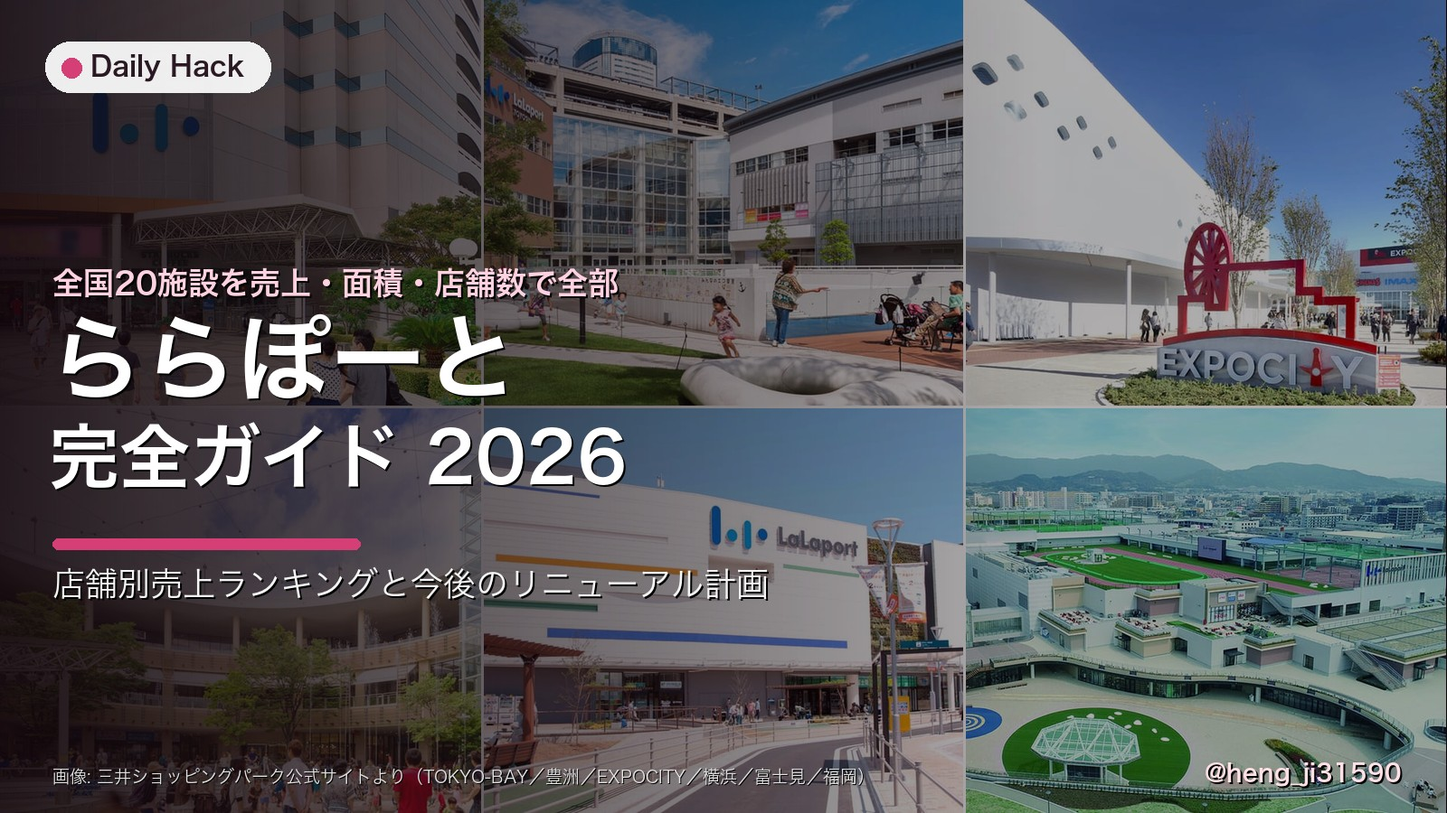
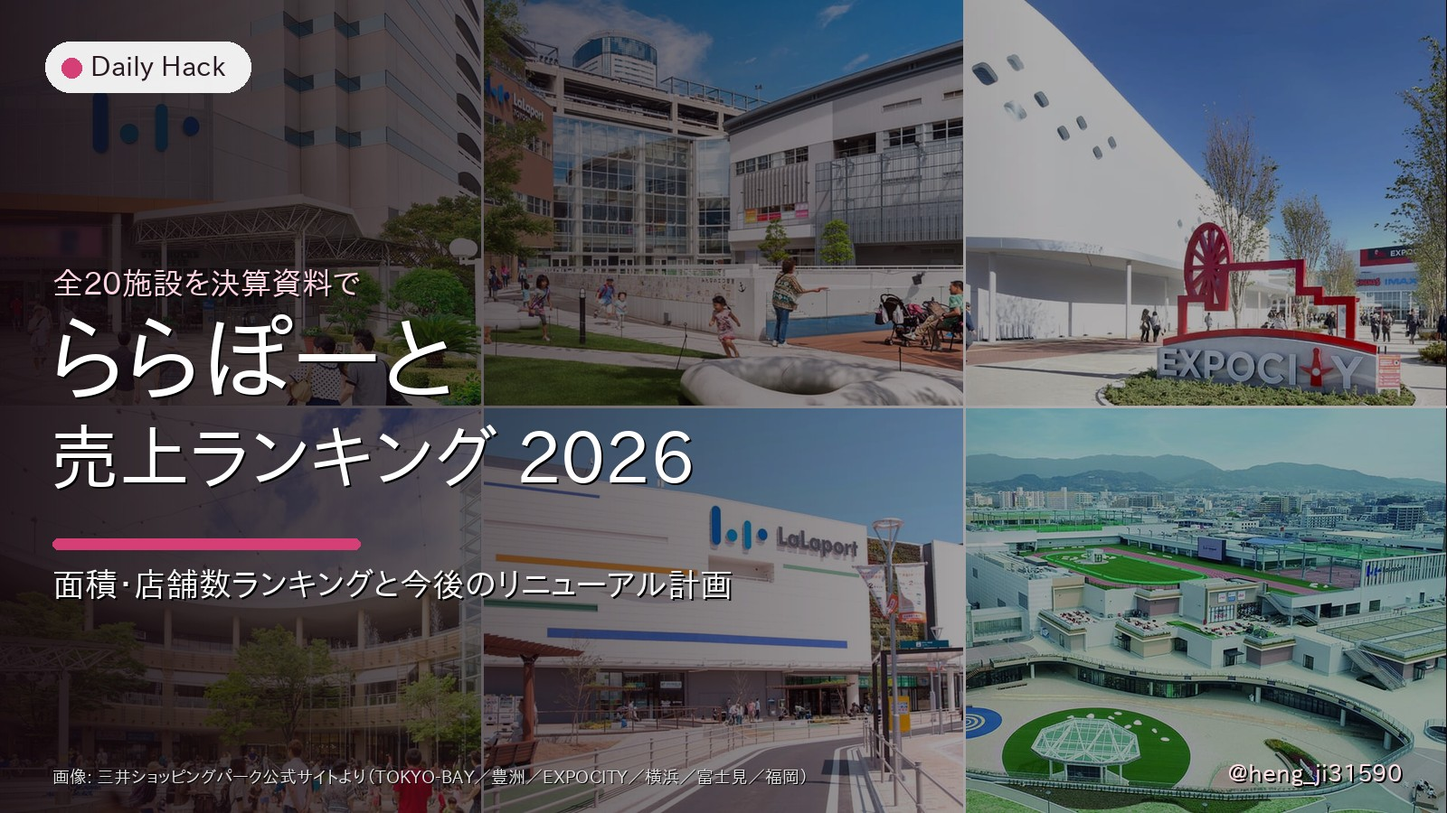
feat: ららぽーと記事を「売上ランキング」に寄せる（7.8位からの押し上げ）
GSC の実測（07-30〜08-26）を棚卸しと突き合わせた結果、
**この記事は実質「ららぽーと 売上ランキング」の記事として認識されている**
（語が返ってきた124表示のうち112＝90%がこのクラスタ）。
にもかかわらず**タイトルに「ランキング」が入っていなかった。**

表示は前回338 → 413（+22%）と伸びたのに**クリックは23のまま横ばい**で、
CTR が 6.8% → 5.6% に落ちた。6.4〜7.8位＝1ページ目の下に張り付いていて、
順位が上がらないとクリックが増えない位置にある。

打った手。

- タイトルを `ららぽーと売上ランキング 2026｜全20施設を決算資料で並べた（面積・店舗数つき）` に変更
- description と冒頭リードに「売上ランキング」をそのまま入れる
- アイキャッチの文字も「売上ランキング 2026」に作り直し（構図は変えていない）
- **「よくある質問」の H2 を追加。** 棚卸しで ✗ だった #3「何店舗」と #13「セール いつ」は
  実測でも 1 件も返っておらず、本文にしか語が無いと拾えないことが裏付けられた。
  疑問形 6 つ（何店舗／一番売上が高い／一番大きい／店舗数が多い／セールはいつ／駐車場は何時間無料）
  に、記事内の数字で答えて根拠の節へリンクした
- 大きさ・店舗数ランキングの表 **30 行に公式リンクを追加**（`check-article-ux.py` の指摘解消）
- 地域別の表に施設の内訳（公式リンクつき）を追加

ついでに見つかった誤りを 2 つ直した。

- **駐車場の「半分の10施設は終日無料」は誤り。** 表を機械的に数えると
  曜日を問わず終日無料は **8 施設**、平日だけ終日無料の 4 施設を足して 12＝6割。
  10 はどちらの数え方でも合わない
- **セールの節にはビジュアルが無かった。** 下の related-block の `<img>` を
  たまたま拾って検査を通っていただけで、見出しを 1 つ挟んだら落ちた。
  `tower-timeline` は正規の視覚部品なので `check-article-ux.py` の判定に足した

`docs/analytics/lalaport-keyword-inventory.md` に実測との突き合わせと打ち手を記録した。
**次回の実測で見るのは、①7.5位が動いたか ②「何店舗」「セール いつ」が返るようになったか。**

`gen-mosaic-hero.py` にも Linux（IPA ゴシック）のフォント代替を足して、
クラウドセッションから表紙を作り直せるようにした。

Claude-Session: https://claude.ai/code/session_01RqPaqffepEWsiAkvhJEvmW

diff --git a/scripts/gen-mosaic-hero.py b/scripts/gen-mosaic-hero.py
@@ -21,8 +21,19 @@ if not imgs:
     print("画像を1枚以上指定すること", file=sys.stderr)
     sys.exit(1)
 
-FB = "/System/Library/Fonts/ヒラギノ角ゴシック W6.ttc"
-FL = "/System/Library/Fonts/ヒラギノ角ゴシック W3.ttc"
+# macOS はヒラギノ、Linux（クラウドセッション）は IPA ゴシックを使う。
+# **どちらでも同じコマンドで生成できるようにする**（2026-08-28 に代替を追加）。
+import os as _os
+_CAND_B = ["/System/Library/Fonts/ヒラギノ角ゴシック W6.ttc",
+           "/usr/share/fonts/opentype/ipafont-gothic/ipagp.ttf",
+           "/usr/share/fonts/opentype/ipafont-gothic/ipag.ttf"]
+_CAND_L = ["/System/Library/Fonts/ヒラギノ角ゴシック W3.ttc",
+           "/usr/share/fonts/opentype/ipafont-gothic/ipagp.ttf",
+           "/usr/share/fonts/opentype/ipafont-gothic/ipag.ttf"]
+FB = next((c for c in _CAND_B if _os.path.exists(c)), None)
+FL = next((c for c in _CAND_L if _os.path.exists(c)), None)
+if FB is None or FL is None:
+    raise SystemExit("日本語フォントが見つからない: " + " / ".join(_CAND_B))
 f = lambda sz, light=False: ImageFont.truetype(FL if light else FB, sz)
 MAG = (214, 62, 118)
 W, H = 1600, 900

diff --git a/scripts/check-article-ux.py b/scripts/check-article-ux.py
@@ -89,7 +89,12 @@ def check(path):
     # --- 5. 1セクション1ビジュアル ---
     # 見出しで本文を分割し、各セクションに視覚要素があるかを見る。
     # 視覚要素 = <img> / iframe(YouTube等) / X埋め込み / 写真カード / 図版
-    VISUAL = re.compile(r"<img\s|<iframe\s|twitter-tweet|event-pick|rn-figure|figure-card|<table")
+    # tower-timeline（年表・時系列）も視覚部品として数える。
+    # 2026-08-29: セールの節が「下の related-block の <img> をたまたま拾って」通っていた。
+    # 見出しを 1 つ挟んだだけで落ちたので、実際にはビジュアルが無かった。
+    # tower-timeline は skill の部品表にある正規の視覚部品なので、ここに足す。
+    VISUAL = re.compile(r"<img\s|<iframe\s|twitter-tweet|event-pick|rn-figure|figure-card"
+                        r"|<table|tower-timeline")
     parts = re.split(r'(<h[23][^>]*>.*?</h[23]>)', body, flags=re.S)
     # parts: [前文, 見出し, 本文, 見出し, 本文, ...]
     for i in range(1, len(parts) - 1, 2):

diff --git a/src/content/posts/lalaport-guide-2026.md b/src/content/posts/lalaport-guide-2026.md
@@ -1,18 +1,18 @@
 ---
-title: "ららぽーと完全ガイド 2026｜全20施設の売上・面積・店舗数と、これから変わる4施設"
-description: "全国20施設のららぽーとを、三井不動産の決算資料に載った店舗別売上と面積・店舗数で全部並べた。ラゾーナ川崎が全国3位という事実、横浜が110億円減った理由、2026年から始まる大規模リニューアルまで。"
+title: "ららぽーと売上ランキング 2026｜全20施設を決算資料で並べた（面積・店舗数つき）"
+description: "ららぽーとの売上ランキングを、三井不動産の決算資料に載った店舗別売上で全20施設ぶん並べた。面積ランキング・店舗数ランキングつき。ラゾーナ川崎が全国3位という事実、横浜が110億円減った理由、2026年からのリニューアルまで。"
 publishDate: 2026-08-09
 category: ["roundups", "comparisons"]
 tags: ["ららぽーと", "三井ショッピングパーク", "三井不動産", "ショッピングモール", "売上ランキング", "リニューアル", "ラゾーナ川崎", "TOKYO-BAY", "2026年版"]
 draft: false
 eyecatchUrl: "/images/lalaport-guide-2026/eyecatch.jpg"
-eyecatchAlt: "ららぽーと完全ガイド 2026｜全20施設の売上・面積・店舗数と、これから変わる4施設"
+eyecatchAlt: "ららぽーと売上ランキング 2026｜全20施設を決算資料で並べた（面積・店舗数つき）"
 author: "hacker-ko"
 ---
 
 「ららぽーとって全部でいくつあるの？」「どこが一番デカいの？」——検索しても、出てくるのは店舗一覧のコピペか、行った感想ばかり。**数字で答えてる記事がない。**
 
-だからアタシが作った。**三井不動産が決算資料で公開している店舗別売上**を軸に、全20施設を面積・店舗数・開業年で並べる。**面積順・店舗数順・地域別**の3つのランキングも用意した。おまけに前年の資料と突き合わせて、**どこが伸びてどこが落ちたか**まで出した。この差分はどこにも載ってない。
+だからアタシが作った。**三井不動産が決算資料で公開している店舗別売上**を軸に、**ららぽーとの売上ランキングを全20施設ぶん**並べる。あわせて**面積ランキング・店舗数ランキング・地域別**も用意した。おまけに前年の資料と突き合わせて、**どこが伸びてどこが落ちたか**まで出した。この差分はどこにも載ってない。
 
 <div class="hakkako-says">
   <div class="hakkako-mascot"><img src="/images/expr-05-smug.png" alt="Daily Hackマスコット" /></div>
@@ -422,26 +422,26 @@ North Gate 3階のフードコートは約1,400席。ららぽーとTOKYO-BAY全
   <table class="cmp-table">
     <thead><tr><th>順</th><th>施設</th><th>店舗面積</th><th>店舗数</th><th>所在</th><th>開業</th></tr></thead>
     <tbody>
-      <tr class="recommended"><td>1</td><td>TOKYO-BAY</td><td>約133,000㎡</td><td>約390〜420</td><td>関東・船橋</td><td>1981/4</td></tr>
-      <tr class="recommended"><td>2</td><td>横浜</td><td>約93,000㎡</td><td>約270</td><td>関東・横浜</td><td>2007/3</td></tr>
-      <tr class="recommended"><td>3</td><td>EXPOCITY</td><td>約88,000㎡</td><td>約310</td><td>関西・吹田</td><td>2015/11</td></tr>
-      <tr><td>4</td><td>富士見</td><td>約80,000㎡</td><td>約290</td><td>関東・富士見</td><td>2015/4</td></tr>
-      <tr><td>5</td><td>福岡</td><td>約73,100㎡</td><td>約222</td><td>九州・福岡</td><td>2022/4</td></tr>
-      <tr><td>6</td><td>豊洲</td><td>約67,000㎡</td><td>約220</td><td>関東・江東</td><td>2006/10</td></tr>
-      <tr><td>7</td><td>門真</td><td>約66,000㎡ ※</td><td>153（MOP98を除く）</td><td>関西・門真</td><td>2023/4</td></tr>
-      <tr><td>8</td><td>沼津</td><td>約64,000㎡</td><td>約210</td><td>東海・沼津</td><td>2019/10</td></tr>
-      <tr><td>9</td><td>愛知東郷</td><td>約63,900㎡</td><td>約201</td><td>東海・愛知郡</td><td>2020/9</td></tr>
-      <tr><td>10</td><td>安城</td><td>約60,300㎡</td><td>約215</td><td>東海・安城</td><td>2025/4</td></tr>
-      <tr><td>11</td><td>甲子園</td><td>約60,000㎡</td><td>約150</td><td>関西・西宮</td><td>2004/11</td></tr>
-      <tr><td>12</td><td>立川立飛</td><td>約60,000㎡</td><td>約240</td><td>関東・立川</td><td>2015/12</td></tr>
-      <tr><td>13</td><td>湘南平塚</td><td>約60,000㎡</td><td>約247</td><td>関東・平塚</td><td>2016/10</td></tr>
-      <tr><td>14</td><td>名古屋みなとアクルス</td><td>約59,500㎡</td><td>約217</td><td>東海・名古屋</td><td>2018/9</td></tr>
-      <tr><td>15</td><td>新三郷</td><td>約59,400㎡</td><td>約180</td><td>関東・三郷</td><td>2009/9</td></tr>
-      <tr><td>16</td><td>堺</td><td>約56,200㎡</td><td>約212</td><td>関西・堺</td><td>2022/11</td></tr>
-      <tr><td>17</td><td>和泉</td><td>約55,000㎡</td><td>約210</td><td>関西・和泉</td><td>2014/10</td></tr>
-      <tr><td>18</td><td>海老名</td><td>約54,000㎡</td><td>約260</td><td>関東・海老名</td><td>2015/10</td></tr>
-      <tr><td>19</td><td>磐田</td><td>約50,000㎡</td><td>約175</td><td>東海・磐田</td><td>2009/6</td></tr>
-      <tr><td>20</td><td>柏の葉</td><td>約49,500㎡</td><td>約180</td><td>関東・柏</td><td>2006/11</td></tr>
+      <td><a href="https://mitsui-shopping-park.com/lalaport/tokyo-bay/" target="_blank" rel="noopener">TOKYO-BAY</a></td><tr class="recommended"><td>1</td><td>TOKYO-BAY</td><td>約133,000㎡</td><td>約390〜420</td><td>関東・船橋</td><td>1981/4</td></tr>
+      <td><a href="https://mitsui-shopping-park.com/lalaport/yokohama/" target="_blank" rel="noopener">横浜</a></td><tr class="recommended"><td>2</td><td>横浜</td><td>約93,000㎡</td><td>約270</td><td>関東・横浜</td><td>2007/3</td></tr>
+      <td><a href="https://mitsui-shopping-park.com/lalaport/expocity/" target="_blank" rel="noopener">EXPOCITY</a></td><tr class="recommended"><td>3</td><td>EXPOCITY</td><td>約88,000㎡</td><td>約310</td><td>関西・吹田</td><td>2015/11</td></tr>
+      <td><a href="https://mitsui-shopping-park.com/lalaport/fujimi/" target="_blank" rel="noopener">富士見</a></td><tr><td>4</td><td>富士見</td><td>約80,000㎡</td><td>約290</td><td>関東・富士見</td><td>2015/4</td></tr>
+      <td><a href="https://mitsui-shopping-park.com/lalaport/fukuoka/" target="_blank" rel="noopener">福岡</a></td><tr><td>5</td><td>福岡</td><td>約73,100㎡</td><td>約222</td><td>九州・福岡</td><td>2022/4</td></tr>
+      <td><a href="https://mitsui-shopping-park.com/lalaport/toyosu/" target="_blank" rel="noopener">豊洲</a></td><tr><td>6</td><td>豊洲</td><td>約67,000㎡</td><td>約220</td><td>関東・江東</td><td>2006/10</td></tr>
+      <td><a href="https://mitsui-shopping-park.com/lalaport/kadoma/" target="_blank" rel="noopener">門真</a></td><tr><td>7</td><td>門真</td><td>約66,000㎡ ※</td><td>153（MOP98を除く）</td><td>関西・門真</td><td>2023/4</td></tr>
+      <td><a href="https://mitsui-shopping-park.com/lalaport/numazu/" target="_blank" rel="noopener">沼津</a></td><tr><td>8</td><td>沼津</td><td>約64,000㎡</td><td>約210</td><td>東海・沼津</td><td>2019/10</td></tr>
+      <td><a href="https://mitsui-shopping-park.com/lalaport/togo/" target="_blank" rel="noopener">愛知東郷</a></td><tr><td>9</td><td>愛知東郷</td><td>約63,900㎡</td><td>約201</td><td>東海・愛知郡</td><td>2020/9</td></tr>
+      <td><a href="https://mitsui-shopping-park.com/lalaport/anjo/" target="_blank" rel="noopener">安城</a></td><tr><td>10</td><td>安城</td><td>約60,300㎡</td><td>約215</td><td>東海・安城</td><td>2025/4</td></tr>
+      <td><a href="https://mitsui-shopping-park.com/lalaport/koshien/" target="_blank" rel="noopener">甲子園</a></td><tr><td>11</td><td>甲子園</td><td>約60,000㎡</td><td>約150</td><td>関西・西宮</td><td>2004/11</td></tr>
+      <td><a href="https://mitsui-shopping-park.com/lalaport/tachikawa/" target="_blank" rel="noopener">立川立飛</a></td><tr><td>12</td><td>立川立飛</td><td>約60,000㎡</td><td>約240</td><td>関東・立川</td><td>2015/12</td></tr>
+      <td><a href="https://mitsui-shopping-park.com/lalaport/hiratsuka/" target="_blank" rel="noopener">湘南平塚</a></td><tr><td>13</td><td>湘南平塚</td><td>約60,000㎡</td><td>約247</td><td>関東・平塚</td><td>2016/10</td></tr>
+      <td><a href="https://mitsui-shopping-park.com/lalaport/minatoaquls/" target="_blank" rel="noopener">名古屋みなとアクルス</a></td><tr><td>14</td><td>名古屋みなとアクルス</td><td>約59,500㎡</td><td>約217</td><td>東海・名古屋</td><td>2018/9</td></tr>
+      <td><a href="https://mitsui-shopping-park.com/lalaport/shinmisato/" target="_blank" rel="noopener">新三郷</a></td><tr><td>15</td><td>新三郷</td><td>約59,400㎡</td><td>約180</td><td>関東・三郷</td><td>2009/9</td></tr>
+      <td><a href="https://mitsui-shopping-park.com/lalaport/sakai/" target="_blank" rel="noopener">堺</a></td><tr><td>16</td><td>堺</td><td>約56,200㎡</td><td>約212</td><td>関西・堺</td><td>2022/11</td></tr>
+      <td><a href="https://mitsui-shopping-park.com/lalaport/izumi/" target="_blank" rel="noopener">和泉</a></td><tr><td>17</td><td>和泉</td><td>約55,000㎡</td><td>約210</td><td>関西・和泉</td><td>2014/10</td></tr>
+      <td><a href="https://mitsui-shopping-park.com/lalaport/ebina/" target="_blank" rel="noopener">海老名</a></td><tr><td>18</td><td>海老名</td><td>約54,000㎡</td><td>約260</td><td>関東・海老名</td><td>2015/10</td></tr>
+      <td><a href="https://mitsui-shopping-park.com/lalaport/iwata/" target="_blank" rel="noopener">磐田</a></td><tr><td>19</td><td>磐田</td><td>約50,000㎡</td><td>約175</td><td>東海・磐田</td><td>2009/6</td></tr>
+      <td><a href="https://mitsui-shopping-park.com/lalaport/kashiwa/" target="_blank" rel="noopener">柏の葉</a></td><tr><td>20</td><td>柏の葉</td><td>約49,500㎡</td><td>約180</td><td>関東・柏</td><td>2006/11</td></tr>
     </tbody>
   </table>
 </div>
@@ -456,16 +456,16 @@ North Gate 3階のフードコートは約1,400席。ららぽーとTOKYO-BAY全
   <table class="cmp-table">
     <thead><tr><th>順</th><th>施設</th><th>店舗数</th><th>面積での順位</th><th>地域</th></tr></thead>
     <tbody>
-      <tr class="recommended"><td>1</td><td>TOKYO-BAY</td><td>約390〜420</td><td>面積1位</td><td>関東</td></tr>
-      <tr class="recommended"><td>2</td><td>EXPOCITY</td><td>約310</td><td>面積3位</td><td>関西</td></tr>
-      <tr class="recommended"><td>3</td><td>富士見</td><td>約290</td><td>面積4位</td><td>関東</td></tr>
-      <tr><td>4</td><td>横浜</td><td>約270</td><td>面積2位</td><td>関東</td></tr>
-      <tr><td>5</td><td>海老名</td><td>約260</td><td>面積18位</td><td>関東</td></tr>
-      <tr><td>6</td><td>湘南平塚</td><td>約247</td><td>面積13位</td><td>関東</td></tr>
-      <tr><td>7</td><td>立川立飛</td><td>約240</td><td>面積12位</td><td>関東</td></tr>
-      <tr><td>8</td><td>福岡</td><td>約222</td><td>面積5位</td><td>九州</td></tr>
-      <tr><td>9</td><td>豊洲</td><td>約220</td><td>面積6位</td><td>関東</td></tr>
-      <tr><td>10</td><td>名古屋みなとアクルス</td><td>約217</td><td>面積14位</td><td>東海</td></tr>
+      <td><a href="https://mitsui-shopping-park.com/lalaport/tokyo-bay/" target="_blank" rel="noopener">TOKYO-BAY</a></td><tr class="recommended"><td>1</td><td>TOKYO-BAY</td><td>約390〜420</td><td>面積1位</td><td>関東</td></tr>
+      <td><a href="https://mitsui-shopping-park.com/lalaport/expocity/" target="_blank" rel="noopener">EXPOCITY</a></td><tr class="recommended"><td>2</td><td>EXPOCITY</td><td>約310</td><td>面積3位</td><td>関西</td></tr>
+      <td><a href="https://mitsui-shopping-park.com/lalaport/fujimi/" target="_blank" rel="noopener">富士見</a></td><tr class="recommended"><td>3</td><td>富士見</td><td>約290</td><td>面積4位</td><td>関東</td></tr>
+      <td><a href="https://mitsui-shopping-park.com/lalaport/yokohama/" target="_blank" rel="noopener">横浜</a></td><tr><td>4</td><td>横浜</td><td>約270</td><td>面積2位</td><td>関東</td></tr>
+      <td><a href="https://mitsui-shopping-park.com/lalaport/ebina/" target="_blank" rel="noopener">海老名</a></td><tr><td>5</td><td>海老名</td><td>約260</td><td>面積18位</td><td>関東</td></tr>
+      <td><a href="https://mitsui-shopping-park.com/lalaport/hiratsuka/" target="_blank" rel="noopener">湘南平塚</a></td><tr><td>6</td><td>湘南平塚</td><td>約247</td><td>面積13位</td><td>関東</td></tr>
+      <td><a href="https://mitsui-shopping-park.com/lalaport/tachikawa/" target="_blank" rel="noopener">立川立飛</a></td><tr><td>7</td><td>立川立飛</td><td>約240</td><td>面積12位</td><td>関東</td></tr>
+      <td><a href="https://mitsui-shopping-park.com/lalaport/fukuoka/" target="_blank" rel="noopener">福岡</a></td><tr><td>8</td><td>福岡</td><td>約222</td><td>面積5位</td><td>九州</td></tr>
+      <td><a href="https://mitsui-shopping-park.com/lalaport/toyosu/" target="_blank" rel="noopener">豊洲</a></td><tr><td>9</td><td>豊洲</td><td>約220</td><td>面積6位</td><td>関東</td></tr>
+      <td><a href="https://mitsui-shopping-park.com/lalaport/minatoaquls/" target="_blank" rel="noopener">名古屋みなとアクルス</a></td><tr><td>10</td><td>名古屋みなとアクルス</td><td>約217</td><td>面積14位</td><td>東海</td></tr>
     </tbody>
   </table>
 </div>
@@ -482,13 +482,13 @@ North Gate 3階のフードコートは約1,400席。ららぽーとTOKYO-BAY全
 ## 地域で見ると、半分近くが関東に集まっている
 
 <div class="cmp-table-wrap">
-  <table class="cmp-table">
-    <thead><tr><th>地域</th><th>施設数</th><th>合計面積</th><th>平均面積</th></tr></thead>
+  <table class="cmp-table wrap-table">
+    <thead><tr><th>地域</th><th>施設数</th><th>合計面積</th><th>平均面積</th><th>内訳（面積の大きい順）</th></tr></thead>
     <tbody>
-      <tr class="recommended"><td>関東</td><td>9施設</td><td>655,900㎡</td><td>72,877㎡</td></tr>
-      <tr><td>関西</td><td>5施設</td><td>325,200㎡</td><td>65,040㎡</td></tr>
-      <tr><td>東海</td><td>5施設</td><td>297,700㎡</td><td>59,540㎡</td></tr>
-      <tr><td>九州</td><td>1施設</td><td>73,100㎡</td><td>73,100㎡</td></tr>
+      <tr class="recommended"><td>関東</td><td>9施設</td><td>655,900㎡</td><td>72,877㎡</td><td><a href="https://mitsui-shopping-park.com/lalaport/tokyo-bay/" target="_blank" rel="noopener">TOKYO-BAY</a>・<a href="https://mitsui-shopping-park.com/lalaport/yokohama/" target="_blank" rel="noopener">横浜</a>・<a href="https://mitsui-shopping-park.com/lalaport/fujimi/" target="_blank" rel="noopener">富士見</a>・<a href="https://mitsui-shopping-park.com/lalaport/toyosu/" target="_blank" rel="noopener">豊洲</a>・<a href="https://mitsui-shopping-park.com/lalaport/tachikawa/" target="_blank" rel="noopener">立川立飛</a>・<a href="https://mitsui-shopping-park.com/lalaport/hiratsuka/" target="_blank" rel="noopener">湘南平塚</a>・<a href="https://mitsui-shopping-park.com/lalaport/shinmisato/" target="_blank" rel="noopener">新三郷</a>・<a href="https://mitsui-shopping-park.com/lalaport/ebina/" target="_blank" rel="noopener">海老名</a>・<a href="https://mitsui-shopping-park.com/lalaport/kashiwa/" target="_blank" rel="noopener">柏の葉</a></td></tr>
+      <tr><td>関西</td><td>5施設</td><td>325,200㎡</td><td>65,040㎡</td><td><a href="https://mitsui-shopping-park.com/lalaport/expocity/" target="_blank" rel="noopener">EXPOCITY</a>・<a href="https://mitsui-shopping-park.com/lalaport/kadoma/" target="_blank" rel="noopener">門真</a>・<a href="https://mitsui-shopping-park.com/lalaport/koshien/" target="_blank" rel="noopener">甲子園</a>・<a href="https://mitsui-shopping-park.com/lalaport/sakai/" target="_blank" rel="noopener">堺</a>・<a href="https://mitsui-shopping-park.com/lalaport/izumi/" target="_blank" rel="noopener">和泉</a></td></tr>
+      <tr><td>東海</td><td>5施設</td><td>297,700㎡</td><td>59,540㎡</td><td><a href="https://mitsui-shopping-park.com/lalaport/numazu/" target="_blank" rel="noopener">沼津</a>・<a href="https://mitsui-shopping-park.com/lalaport/togo/" target="_blank" rel="noopener">愛知東郷</a>・<a href="https://mitsui-shopping-park.com/lalaport/anjo/" target="_blank" rel="noopener">安城</a>・<a href="https://mitsui-shopping-park.com/lalaport/minatoaquls/" target="_blank" rel="noopener">名古屋みなとアクルス</a>・<a href="https://mitsui-shopping-park.com/lalaport/iwata/" target="_blank" rel="noopener">磐田</a></td></tr>
+      <tr><td>九州</td><td>1施設</td><td>73,100㎡</td><td>73,100㎡</td><td><a href="https://mitsui-shopping-park.com/lalaport/fukuoka/" target="_blank" rel="noopener">福岡</a></td></tr>
     </tbody>
   </table>
 </div>
@@ -828,7 +828,7 @@ North Gate 3階のフードコートは約1,400席。ららぽーとTOKYO-BAY全
 読み取れることが 3 つある。
 
 <ul class="checklist">
-  <li><div class="checklist-body"><strong>半分の10施設は「終日無料」</strong><p>磐田・和泉・富士見・沼津・愛知東郷・堺・安城・新三郷（本館）に加え、横浜・湘南平塚・立川立飛・福岡は<strong>平日が終日無料</strong>。地方・郊外型ほど無料に寄る。</p></div></li>
+  <li><div class="checklist-body"><strong>8施設は曜日を問わず「終日無料」</strong><p>磐田・和泉・富士見・沼津・愛知東郷・堺・安城・新三郷（本館）の8施設。これに<strong>平日だけ終日無料</strong>の横浜・湘南平塚・立川立飛・福岡を足すと<strong>12施設＝6割</strong>になる。地方・郊外型ほど無料に寄る。</p></div></li>
   <li><div class="checklist-body"><strong>都心型ほど厳しい</strong><p>豊洲は超過<strong>30分400円</strong>で全施設中もっとも高い。TOKYO-BAYも最初の1時間だけ。<strong>土地代がそのまま駐車料金に出ている</strong>。</p></div></li>
   <li><div class="checklist-body"><strong>海老名とEXPOCITYは「買わないと無料枠が出ない」</strong><p>時間による基本無料枠ではなく、<strong>買い物金額が条件</strong>。ぶらっと寄るだけだと最初から課金される。</p></div></li>
 </ul>
@@ -861,6 +861,24 @@ North Gate 3階のフードコートは約1,400席。ららぽーとTOKYO-BAY全
 **「サマークリアランス」という名前のセールはららぽーとには無い。** 夏の大型セールは「ららぽーとバーゲン」で、**2026年夏分はすでに終了済み**。次の全館セールはブラックフライデーまで空く。
 
 <p class="source-note">日程はいずれも各年の実績。2026年のブラックフライデー日程は本記事作成時点で<strong>未発表</strong>のため、例年どおりとは限らない。</p>
+
+## よくある質問｜何店舗・一番大きい・セールはいつ
+
+**検索でよく聞かれることに、この記事の数字で答える。** 根拠の節へリンクを張っているので、詳しくはそちらへ。
+
+<div class="cmp-table-wrap">
+  <table class="cmp-table wrap-table">
+    <thead><tr><th>質問</th><th>答え</th></tr></thead>
+    <tbody>
+      <tr class="recommended"><td><strong>ららぽーとは全部で何店舗ある？</strong></td><td><strong>国内20施設</strong>（2026年8月時点）。<a href="#全国マップららぽーとがあるのは9都府県だけ">9都府県にしかない</a>。<strong>2026年の国内新規開業はゼロ</strong>で、既存施設のリニューアルの年になっている</td></tr>
+      <tr class="recommended"><td><strong>ららぽーとで一番売上が高いのはどこ？</strong></td><td><a href="#店舗別売上ランキング三井不動産の決算資料そのまま">ラゾーナ川崎プラザの<strong>990億円</strong></a>。ただしこれは「ららぽーと」ブランドではない。<strong>ららぽーとの最大手はTOKYO-BAYの790億円</strong>で、200億の差がある</td></tr>
+      <tr class="recommended"><td><strong>ららぽーとで一番大きいのはどこ？</strong></td><td><a href="#大きさランキング面積で全20施設を並べる">ららぽーとTOKYO-BAY の <strong>約133,000㎡</strong></a>。2位の横浜（約93,000㎡）とは<strong>4万㎡の差</strong>があり、2位以下を大きく離している</td></tr>
+      <tr><td><strong>店舗数が一番多いのは？</strong></td><td><a href="#店舗数ランキング広い店が多いではない">TOKYO-BAY の <strong>約390〜420店</strong></a>。ただし<strong>面積18位の海老名が店舗数では5位</strong>（約260店）で、広さと店数は一致しない</td></tr>
+      <tr><td><strong>ららぽーとのセールはいつ？</strong></td><td><a href="#セールは年2回が本番">年2回が本番</a>。2026年の夏は<strong>7/3〜7/12</strong>（関西5施設は7/20まで）、初売りは<strong>1/1〜1/12</strong>。ほかに11月中旬〜下旬のブラックフライデーがある</td></tr>
+      <tr><td><strong>ららぽーとの駐車場は何時間無料？</strong></td><td><strong>「◯時間無料」で括れない。</strong><a href="#全20施設の駐車場無料条件はここまで違う">曜日を問わず終日無料が8施設</a>ある一方、<strong>豊洲は超過30分400円</strong>。同じららぽーとでこれだけ違う</td></tr>
+    </tbody>
+  </table>
+</div>
 
 <aside class="related-block">
   <div class="related-block-head">

diff --git a/docs/analytics/lalaport-keyword-inventory.md b/docs/analytics/lalaport-keyword-inventory.md
@@ -74,6 +74,58 @@
 | 17 | ららぽーと 地域別 / 関東 / 関西 | 地域で見ると、半分近くが関東に集まっている | △ | **#189 で追加。**「関東」は入っているが「一覧」「何県」の語が無い |
 | 18 | ららぽーと 面積 違う / 情報が食い違う | 他サイトと面積・店舗数が食い違う理由 | ✅ | **#189 で追加。**届出値かリリース値か／時点／併設施設の 3 点で説明。他サイトに無い |
 
+## 実測（2026-07-30〜08-26・GSC）を突き合わせた結果
+
+**記事全体: 平均 7.8 位 / 表示 413 / クリック 23。** サイト全体の表示 612 のうち **413（67%）がこの 1 本**。
+
+GSC が語を返したのは 124 表示ぶんだけで、**残り 289（70%）は匿名化されて語が分からない。**
+以下は「返ってきた 124 表示」の中の話である。
+
+| 平均順位 | 表示 | クリック | クエリ | 棚卸しの番号 |
+| --- | --- | --- | --- | --- |
+| 6.4 位 | 5 | 1 | ららぽーと 売り上げランキング | #1 |
+| 6.6 位 | 10 | 1 | ららぽーと 売上 | #1 |
+| **7.0 位** | **33** | 1 | **ららぽーと売上ランキング**（スペース無し） | #1 |
+| **7.5 位** | **60** | 3 | **ららぽーと 売上ランキング** | #1 |
+| 7.8 位 | 4 | 0 | ららぽーと 売上 ランキング | #1 |
+| 7.0 位 | 1 | 0 | ららぽーと 大きい順 | #4 |
+| 9.0 位 | 1 | 0 | ららぽーと どこが大きい | #4 |
+| 10.2 位 | 6 | 0 | ららぽーと 店舗数ランキング | #5 |
+| 49.0 位 | 1 | 0 | ららぽーと大きさ ランキング | #4 |
+| 50.0 位 | 1 | 0 | ららぽーと 大きさ ランキング | #4 |
+| 65.0 位 | 1 | 0 | ららぽーと 大きい | #4 |
+| 7.0 位 | 1 | 0 | 多磨 ららぽーと | — |
+
+### 読み取れたこと
+
+1. **#1「売上ランキング」だけで 112／124 表示。** この記事は実質「ららぽーと 売上ランキング」の記事として認識されている。
+   にもかかわらず、**タイトルに「ランキング」が入っていなかった**（`ららぽーと完全ガイド 2026｜…`）。
+   H2 にはあるが、タイトルに完全一致が無いのは取りこぼしになる。**2026-08-29 にタイトルを
+   `ららぽーと売上ランキング 2026｜…` に変えた。**
+2. **順位は 6.4〜7.8 位で、1 ページ目の下に張り付いている。** 表示は前回（338）から 413 へ +22% 伸びたのに、
+   **クリックは 23 のまま横ばい**で CTR が 6.8% → 5.6% に落ちた。**順位が上がらない限りクリックは増えない位置。**
+3. **#5「店舗数ランキング」は 10.2 位。** #189 で H2 化した効果で認識はされているが、1 ページ目の境界。
+4. **#4「大きさ」は判断できない。** 「大きい順」7.0 位・「どこが大きい」9.0 位と、
+   「大きさ ランキング」49〜50 位・「大きい」65 位が同居している。**どれも表示 1 回**で、
+   この順位はサンプルとして小さすぎる。**次回の実測まで結論を出さない。**
+5. **✗ だった #3（何店舗）と #13（セール いつ）は、実測でも 1 件も返っていない。**
+   受け皿が本文だけだと、やはり拾えない。**2026-08-29 に「よくある質問」の H2 を足して、
+   疑問形の受け皿を作った**（何店舗／一番売上が高い／一番大きい／店舗数が多い／セールはいつ／駐車場は何時間無料）。
+
+### 2026-08-29 に打った手
+
+| 打ち手 | 狙い |
+| --- | --- |
+| タイトルを `ららぽーと売上ランキング 2026｜全20施設を決算資料で並べた（面積・店舗数つき）` に変更 | #1 の完全一致をタイトルに入れる |
+| `description` と冒頭リードに「売上ランキング」をそのまま入れる | 同上 |
+| アイキャッチの文字も「売上ランキング 2026」に作り直し | タイトルと表紙の食い違いを作らない |
+| **「よくある質問」H2 を追加**（疑問形 6 つ） | ✗ だった #3・#13 の受け皿 |
+| 大きさ／店舗数ランキングの表 **30 行に公式リンクを追加** | `check-article-ux.py` の指摘解消。表からの導線 |
+| 地域別の表に施設の内訳（公式リンクつき）を追加 | #17 の受け皿を強くする |
+
+**次回の実測で見るところ。** ①「ららぽーと 売上ランキング」が 7.5 位から動いたか。
+②「何店舗」「セール いつ」が返るようになったか。③「大きさ」の順位が安定したか。
+
 ## 実測が届いたときの読み方
 
 | 実測の出方 | 意味 | 打ち手 |
